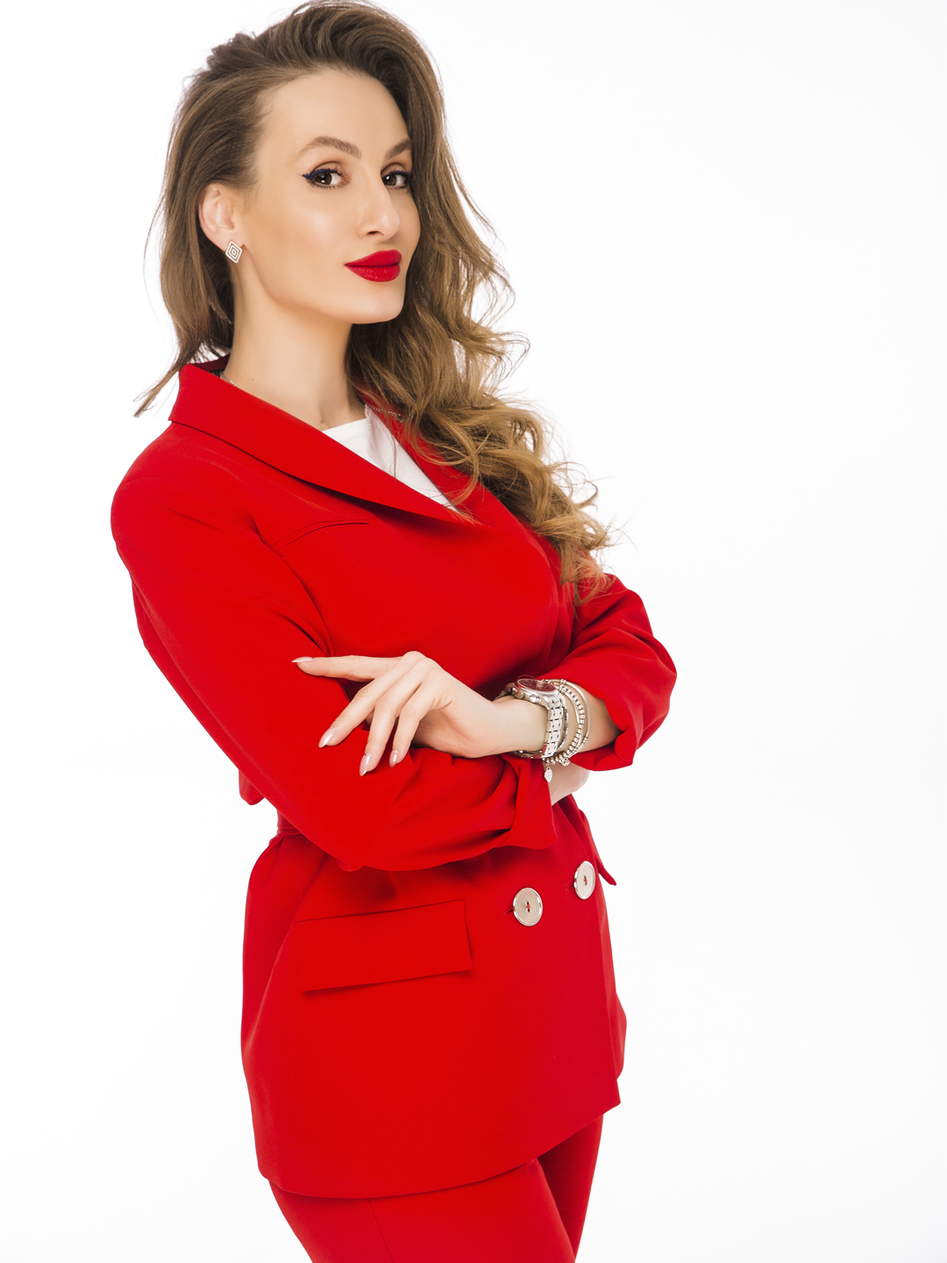
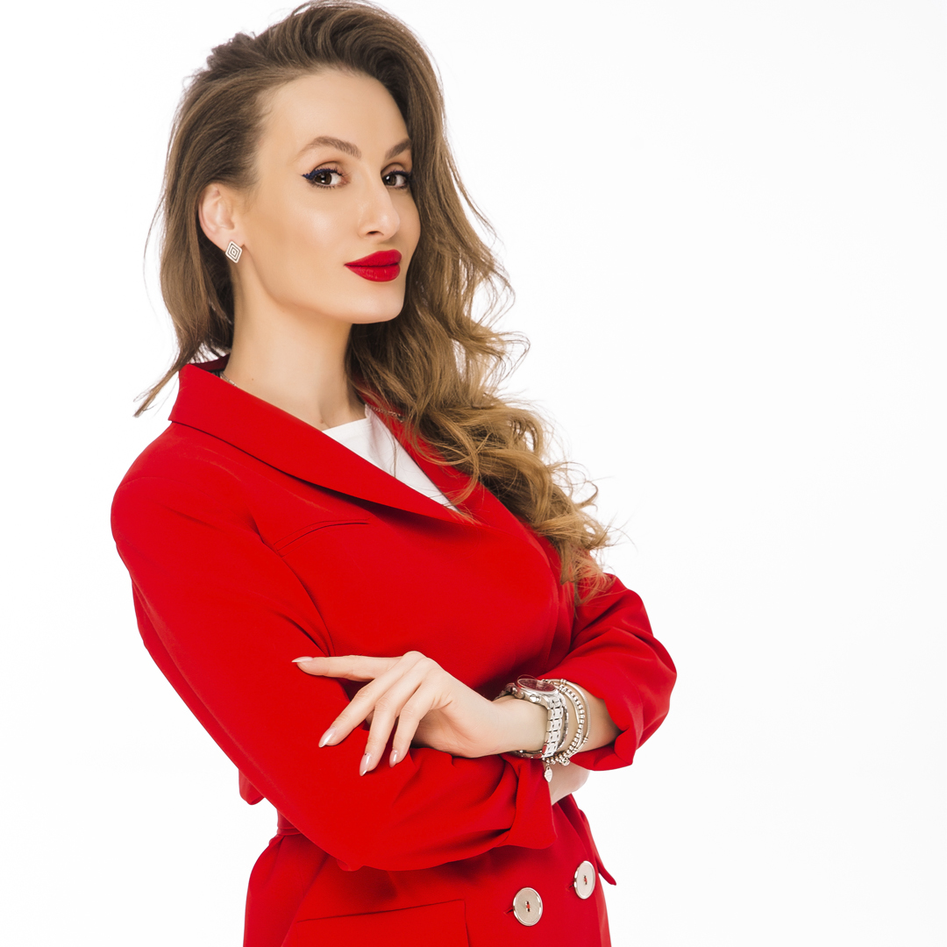
уменьшил спикеров

Changed region(s): [[0.0917, 0.0, 0.7333, 1.0]]

diff --git a/index.html b/index.html
@@ -839,51 +839,51 @@
             <div class="row">
                 <div class="col-lg-4 col-md-6 bordered no-pad">
                     <img src="./img/Spikers/vasheshnikov.jpg" alt="Мастер класс Дмитрий Вашешников" class="speakers-img" name="vasheshnikov">
+                    <button class="speakers-btn modal-btn" name='vasheshnikov'>О спикере</button>
                     <h2 class="speakers-name">Дмитрий Вашешников</h2>
                     <h3 class="speakers-prof">Бизнес-тренер</h3>
                     <div class="speakers-text">
                         ЯБренд</div>
-                    <button class="speakers-btn modal-btn" name='vasheshnikov'>О спикере</button>
                 </div>
                 <div class="col-lg-4 col-md-6 bordered no-pad">
                     <img src="./img/Spikers/didoruk.jpg" alt="Мастер класс Анастасия Дидорук" class="speakers-img" name="didoruk">
+                    <button class="speakers-btn modal-btn" name="didoruk">О спикере</button>
                     <h2 class="speakers-name">Анастасия Дидорук</h2>
                     <h3 class="speakers-prof">Визажист</h3>
                     <div class="speakers-text">
                         Обрести своего клиента</div>
-                    <button class="speakers-btn modal-btn" name="didoruk">О спикере</button>
                 </div>
                 <div class="col-lg-4 col-md-6 bordered no-pad">
                     <img src="./img/Spikers/yakuba.jpg" alt="Мастер класс Владимир Якуба" class="speakers-img" name="yakuba">
+                    <button class="speakers-btn modal-btn" name='yakuba'>О спикере</button>
                     <h2 class="speakers-name">Владимир Якуба</h2>
                     <h3 class="speakers-prof">Бизнес-тренер</h3>
                     <div class="speakers-text">
                         Продажи в условиях жёсткой конкуренции</div>
-                    <button class="speakers-btn modal-btn" name='yakuba'>О спикере</button>
                 </div>
                 <div class="col-lg-4 col-md-6 bordered no-pad">
                     <img src="./img/Spikers/soboleva.jpg" alt="Мастер класс Любовь Соболева" class="speakers-img" name="soboleva">
+                    <button class="speakers-btn modal-btn" name='soboleva'>О спикере</button>
                     <h2 class="speakers-name">Любовь Соболева</h2>
                     <h3 class="speakers-prof">Бизнес-тренер</h3>
                     <div class="speakers-text">
                         Инстаграм бьюти-мастера</div>
-                    <button class="speakers-btn modal-btn" name='soboleva'>О спикере</button>
                 </div>
                 <div class="col-lg-4 col-md-6 bordered no-pad">
                     <img src="./img/Spikers/petuhov.jpg" alt="Мастер класс Дмитрий Петухов" class="speakers-img" name="petuhov">
+                    <button class="speakers-btn modal-btn" name='petuhov'>О спикере</button>
                     <h2 class="speakers-name">Дмитрий Петухов</h2>
                     <h3 class="speakers-prof">Врач-эпидемиолог</h3>
                     <div class="speakers-text">
                         Санитарная безопасность в индустрии красоты</div>
-                    <button class="speakers-btn modal-btn" name='petuhov'>О спикере</button>
                 </div>
                 <div class="col-lg-4 col-md-6 bordered no-pad">
                     <img src="./img/Spikers/sherbanos.jpg" alt="Мастер класс Пётр Щербанос" class="speakers-img" name="sherbanos">
+                    <button class="speakers-btn modal-btn" name='sherbanos'>О спикере</button>
                     <h2 class="speakers-name">Пётр Щербанос</h2>
                     <h3 class="speakers-prof">Бренд-консультант</h3>
                     <div class="speakers-text">
                         Брендинг в бьюти-индустрии</div>
-                    <button class="speakers-btn modal-btn" name='sherbanos'>О спикере</button>
                 </div>
             </div>
             <div class="row">
@@ -896,75 +896,75 @@
             <div class="row">
                 <div class="col-lg-4 col-md-6 bordered no-pad">
                     <img src="./img/Spikers/eitan.jpg" alt="Мастер класс Inbal Eitan" class="speakers-img" name="eitan">
+                    <button class="speakers-btn modal-btn" name='eitan'>О спикере</button>
                     <h2 class="speakers-name">Inbal Eitan</h2>
                     <h3 class="speakers-prof">визажист (Израиль)</h3>
                     <div class="speakers-text">
                         Fashion week for brides</div>
-                    <button class="speakers-btn modal-btn" name='eitan'>О спикере</button>
                 </div>
                 <div class="col-lg-4 col-md-6 bordered no-pad">
                     <img src="./img/Spikers/shilkov.jpg" alt="Мастер класс Андрей Шилков" class="speakers-img" name="shilkov">
+                    <button class="speakers-btn modal-btn" name='shilkov'>О спикере</button>
                     <h2 class="speakers-name">Андрей Шилков</h2>
                     <h3 class="speakers-prof">Художник по макияжу</h3>
                     <div class="speakers-text">
                         Секреты макияжа звёзд</div>
-                    <button class="speakers-btn modal-btn" name='shilkov'>О спикере</button>
                 </div>
                 <div class="col-lg-4 col-md-6 bordered no-pad">
                     <img src="./img/Spikers/tarakanova.jpg" alt="Мастер класс Людмила Тараканова" class="speakers-img" name="tarakanova">
+                    <button class="speakers-btn modal-btn" name='tarakanova'>О спикере</button>
                     <h2 class="speakers-name">Людмила Тараканова</h2>
                     <h3 class="speakers-prof">Визажист</h3>
                     <div class="speakers-text">
                         Идеальная кожа без тона с трансформацией в Fashion make up</div>
-                    <button class="speakers-btn modal-btn" name='tarakanova'>О спикере</button>
                 </div>
                 <div class="col-lg-4 col-md-6 bordered no-pad">
                     <img src="./img/Spikers/kunnieva.jpg" alt="Мастер класс Малика Кунниева" class="speakers-img" name="kunnieva">
+                    <button class="speakers-btn modal-btn" name="kunnieva">О спикере</button>
                     <h2 class="speakers-name">Малика Кунниева</h2>
                     <h3 class="speakers-prof">Визажист</h3>
                     <div class="speakers-text">
                         Модная техника стрелок - кошачий глаз в свадебном макияже</div>
-                    <button class="speakers-btn modal-btn" name="kunnieva">О спикере</button>
                 </div>
                 <div class="col-lg-4 col-md-6 bordered no-pad">
                     <img src="./img/Spikers/semushin.jpg" alt="Мастер класс Игорь Семушин" class="speakers-img" name="semushin">
+                    <button class="speakers-btn modal-btn" name='semushin'>О спикере</button>
                     <h2 class="speakers-name">Игорь Семушин</h2>
                     <h3 class="speakers-prof">Визажист</h3>
                     <div class="speakers-text">
                         Стрелки игубы в авторской анатомической технике</div>
-                    <button class="speakers-btn modal-btn" name='semushin'>О спикере</button>
                 </div>
                 <div class="col-lg-4 col-md-6 bordered no-pad">
                     <img src="./img/Spikers/bartsueva.jpg" alt="Мастер класс Элла Барцуева" class="speakers-img" name="bartsueva">
+                    <button class="speakers-btn modal-btn" name='bartsueva'>О спикере</button>
                     <h2 class="speakers-name">Элла Барцуева</h2>
                     <h3 class="speakers-prof">Визажист</h3>
                     <div class="speakers-text">
                         Коммерческий свадебный макияж</div>
-                    <button class="speakers-btn modal-btn" name='bartsueva'>О спикере</button>
                 </div>
                 <div class="col-lg-4 col-md-6 bordered no-pad">
                     <img src="./img/Spikers/chernomorova.jpg" alt="Мастер класс Кристина Черноморова" class="speakers-img" name="chernomorova">
+                    <button class="speakers-btn modal-btn" name="chernomorova">О спикере</button>
                     <h2 class="speakers-name">Кристина Черноморова</h2>
                     <h3 class="speakers-prof">Визажист</h3>
                     <div class="speakers-text">
                         Создание идеальных бровей: от разрушения до восстановления</div>
-                    <button class="speakers-btn modal-btn" name="chernomorova">О спикере</button>
                 </div>
                 <div class="col-lg-4 col-md-6 bordered no-pad">
                     <img src="./img/Spikers/poni.jpg" alt="Мастер класс Пони Рома" class="speakers-img" name="poni">
+                    <button class="speakers-btn modal-btn" name='poni'>О спикере</button>
                     <h2 class="speakers-name">Пони Рома</h2>
                     <h3 class="speakers-prof">Визажист</h3>
                     <div class="speakers-text">
                         Nude make up</div>
-                    <button class="speakers-btn modal-btn" name='poni'>О спикере</button>
                 </div>
                 <div class="col-lg-4 col-md-6 bordered no-pad">
                     <img src="./img/Spikers/gilev.jpg" alt="Мастер класс Максим Гилёв" class="speakers-img" name="gilev">
+                    <button class="speakers-btn modal-btn" name='gilev'>О спикере</button>
                     <h2 class="speakers-name">Максим Гилёв</h2>
                     <h3 class="speakers-prof">Визажист</h3>
                     <div class="speakers-text">
                         Современные текстуры и различные техники в макияже глаз</div>
-                    <button class="speakers-btn modal-btn" name='gilev'>О спикере</button>
                 </div>
             </div>
             <div class="row">
@@ -977,75 +977,75 @@
             <div class="row">
                 <div class="col-lg-4 col-md-6 bordered no-pad">
                     <img src="./img/Spikers/vinner.jpg" alt="Мастер класс Юлия Виннер" class="speakers-img" name="vinner">
+                    <button class="speakers-btn modal-btn" name='vinner'>О спикере</button>
                     <h2 class="speakers-name">Юлия Виннер</h2>
                     <h3 class="speakers-prof">Мастер перманентного макияжа</h3>
                     <div class="speakers-text">
                         Волоски от А до Я</div>
-                    <button class="speakers-btn modal-btn" name='vinner'>О спикере</button>
                 </div>
                 <div class="col-lg-4 col-md-6 bordered no-pad">
                     <img src="./img/Spikers/borovaya.jpg" alt="Мастер класс Екатерина Боровая" class="speakers-img" name="borovaya">
+                    <button class="speakers-btn modal-btn" name='borovaya'>О спикере</button>
                     <h2 class="speakers-name">Екатерина Боровая</h2>
                     <h3 class="speakers-prof">Мастер перманентного макияжа</h3>
                     <div class="speakers-text">
                         ПМ век - тени в авторской технике Arcobaleno. Работа без анестезии</div>
-                    <button class="speakers-btn modal-btn" name='borovaya'>О спикере</button>
                 </div>
                 <div class="col-lg-4 col-md-6 bordered no-pad">
                     <img src="./img/Spikers/tomashivskaya.jpg" alt="Мастер класс Виктория Томашивская" class="speakers-img" name="tomashivskaya">
+                    <button class="speakers-btn modal-btn" name='tomashivskaya'>О спикере</button>
                     <h2 class="speakers-name">Виктория Томашивская</h2>
                     <h3 class="speakers-prof">Мастер перманентного макияжа</h3>
                     <div class="speakers-text">
                         Восстановление цвета и формы ареолы груди и сосково-ареолярного комплекса</div>
-                    <button class="speakers-btn modal-btn" name='tomashivskaya'>О спикере</button>
                 </div>
                 <div class="col-lg-4 col-md-6 bordered no-pad">
                     <img src="./img/Spikers/hromenko.jpg" alt="Мастер класс Инга Хроменко" class="speakers-img" name="hromenko">
+                    <button class="speakers-btn modal-btn" name='hromenko'>О спикере</button>
                     <h2 class="speakers-name">Инга Хроменко</h2>
                     <h3 class="speakers-prof">Мастер перманентного макияжа</h3>
                     <div class="speakers-text">
                         50 оттенков серого в бровях: кто виноват? Мастер или производитель?</div>
-                    <button class="speakers-btn modal-btn" name='hromenko'>О спикере</button>
                 </div>
                 <div class="col-lg-4 col-md-6 bordered no-pad">
                     <img src="./img/Spikers/miridonov.jpg" alt="Мастер класс Денис Миридонов" class="speakers-img" name="miridonov">
+                    <button class="speakers-btn modal-btn" name='miridonov'>О спикере</button>
                     <h2 class="speakers-name">Денис Миридонов</h2>
                     <h3 class="speakers-prof">Мастер перманентного макияжа</h3>
                     <div class="speakers-text">
                         От техники зависит техника</div>
-                    <button class="speakers-btn modal-btn" name='miridonov'>О спикере</button>
                 </div>
                 <div class="col-lg-4 col-md-6 bordered no-pad">
                     <img src="./img/Spikers/budaragina.jpg" alt="Мастер класс Алла Бударагина" class="speakers-img" name="budaragina">
+                    <button class="speakers-btn modal-btn" name='budaragina'>О спикере</button>
                     <h2 class="speakers-name">Алла Бударагина</h2>
                     <h3 class="speakers-prof">Мастер перманентного макияжа</h3>
                     <div class="speakers-text">
                         Брови в авторской технике "Powder brows"</div>
-                    <button class="speakers-btn modal-btn" name='budaragina'>О спикере</button>
                 </div>
                 <div class="col-lg-4 col-md-6 bordered no-pad">
                     <img src="./img/Spikers/brazinskaya.jpg" alt="Мастер класс Кристина Бразинская" class="speakers-img" name="brazinskaya">
+                    <button class="speakers-btn modal-btn" name='brazinskaya'>О спикере</button>
                     <h2 class="speakers-name">Кристина Бразинская</h2>
                     <h3 class="speakers-prof">Мастер перманентного макияжа</h3>
                     <div class="speakers-text">
                         Перекрытие некачественного ПМ бровей</div>
-                    <button class="speakers-btn modal-btn" name='brazinskaya'>О спикере</button>
                 </div>
                 <div class="col-lg-4 col-md-6 bordered no-pad">
                     <img src="./img/Spikers/spiridonova.jpg" alt="Мастер класс Анастасия Спиридонова" class="speakers-img" name="spiridonova">
+                    <button class="speakers-btn modal-btn" name='spiridonova'>О спикере</button>
                     <h2 class="speakers-name">Анастасия Спиридонова</h2>
                     <h3 class="speakers-prof">Мастер перманентного макияжа</h3>
                     <div class="speakers-text">
                         Губы с эффектом помады в один проход <br> "Wow lipstick"</div>
-                    <button class="speakers-btn modal-btn" name='spiridonova'>О спикере</button>
                 </div>
                 <div class="col-lg-4 col-md-6 bordered no-pad">
                     <img src="./img/Spikers/simtikov.jpg" alt="Мастер класс Рустем Симтиков" class="speakers-img" name="simtikov">
+                    <button class="speakers-btn modal-btn" name='simtikov'>О спикере</button>
                     <h2 class="speakers-name">Рустем Симтиков</h2>
                     <h3 class="speakers-prof">Мастер перманентного макияжа</h3>
                     <div class="speakers-text">
                         Перманентный макияж губ в авторской технике "Velvety Lips"</div>
-                    <button class="speakers-btn modal-btn" name='simtikov'>О спикере</button>
                 </div>
             </div>
     </section>
@@ -1061,11 +1061,11 @@
             <div class="row">
                 <div class="col-lg-4 col-md-6 bordered no-pad">
                     <img src="./img/Spikers/rodrigez.jpg" alt="Тимур Родригез" class="speakers-img" name="rodrigez">
+                    <button class="speakers-btn modal-btn" name='rodrigez'>О спикере</button>
                     <h2 class="speakers-name">Тимур Родригез</h2>
                     <h3 class="speakers-prof">Шоумен</h3>
                     <div class="speakers-text">
                         Ведущий гала-ужина</div>
-                    <button class="speakers-btn modal-btn" name='rodrigez'>О спикере</button>
                 </div>
                 <div class="col-lg-4 col-md-6 bordered no-pad">
 

diff --git a/css/style.min.css b/css/style.min.css
@@ -1,2 +1,2 @@
-.header{text-align:end}.header-logo{margin-top:15px;display:inline-block;width:100px;-webkit-transform:translateX(-322px);transform:translateX(-322px);position:relative}.header-logo__img{width:185px;position:relative}.header-logo__img_mobile{display:none}.header-menu{display:inline-block;vertical-align:top}.header-menu li{display:inline;margin-left:5px}.header-menu__link{color:#fff;text-transform:uppercase;text-decoration:none;font-size:16px}.header-descr{display:inline-block;position:relative;-webkit-transform:translateY(-80px);transform:translateY(-80px);color:#fff}.header-date{text-transform:uppercase;display:block;font-size:22px;font-family:'Playfair Display Bold';font-weight:600;margin-bottom:10px;color:#FF6F61}.header-tel{margin-top:10px;display:inline}.header-tel__link{color:#FF6F61;font-size:20px;text-decoration:none}.header-btn{background-color:#FF6F61;border:none;text-transform:uppercase;font-size:17px;font-weight:600;font-family:'Playfair Display Bold';margin-top:72px;cursor:pointer;outline:none;padding:5px;display:block}.header-contacts{text-align:start}.contacts-link{display:inline-block;text-transform:uppercase;color:#ffffff;margin-top:17px;text-decoration:none;margin-left:14px;font-size:16px}@media (max-width: 1200px){.header-logo{-webkit-transform:translateX(-229px);transform:translateX(-229px)}.header-menu{display:none}.header-descr{-webkit-transform:translateY(-37px);transform:translateY(-37px)}.contacts-link{display:none}}@media (max-width: 992px){.header-logo{-webkit-transform:translateX(-310px);transform:translateX(-310px)}.header-descr{-webkit-transform:translateY(0);transform:translateY(0)}.header-btn{margin-top:20px}}@media (max-width: 768px){.header-btn{margin-bottom:20px;background-color:#fff}.header-logo{-webkit-transform:translateX(-129px);transform:translateX(-129px)}}@media (max-width: 576px){.header-logo{-webkit-transform:none;transform:none;width:100%}.header-logo__img{display:none}.header-logo__img_mobile{display:block;margin:auto;margin-top:10px;width:200px}}.main-utp{font-size:22px;text-transform:uppercase;background-color:#FF6F61;color:#000;font-family:'Playfair Display Bold';font-weight:600;padding:10px}.main-wrap{background:url("../img/main-bg-100.jpg") center no-repeat;background-size:cover}.main-descr{margin-top:20px}.main-descr__sale{padding-left:5px}.main-btn{text-transform:uppercase;font-family:'Playfair Display Bold';font-weight:600;margin-top:20px;padding:5px 10px 5px 10px;border:none;outline:none;cursor:pointer}.main-btn__down{width:100%;display:block;text-align:center;margin-top:30px}.down{height:40px;margin-top:30px}@media (max-width: 1200px){.down{display:none}}@media (max-width: 992px){.main-wrap{background-size:contain}}@media (max-width: 768px){.main-wrap{background:none}}.section-title{margin-top:50px;margin-bottom:50px;text-transform:uppercase;font-size:36px}.interest{background:url("../img/second-bg.jpg") center no-repeat;background-size:contain}.interest-title{margin-top:70px;display:block;text-align:start}.interest-down{display:block;margin-top:340px}.forwho{background:url("../img/third-bg-100.jpg") center no-repeat;background-size:contain}.forwho-title{margin-top:70px;display:block;text-align:center}.programm{width:100%}.programm-wrap{background:url("../img/forth-bg-100.jpg") top no-repeat;background-size:cover;width:100%}.programm-btn{position:relative;-webkit-transform:translateX(-15px);transform:translateX(-15px)}.programm-title{text-align:end}.programm-adv{padding-left:3px;padding-right:3px}.programm-text{font-weight:normal}@media (max-width: 1200px){.interest-down{margin-top:150px}}@media (max-width: 576px){.interest{background:none}.programm-wrap{background-size:cover}}@media (max-width: 768px){.forwho{background:none}.interest-down{margin-top:0}.programm-wrap{background:none}}.speakers-img{width:80%;cursor:pointer}.speakers-name{margin-left:5px}.speakers-prof{text-transform:uppercase;margin-left:5px}.speakers-text{margin-left:5px;display:block;height:60px}.speakers-btn{color:#000000;background-color:#FF6F61;border:none;text-transform:uppercase;font-family:'Playfair Display Bold';font-weight:600;padding:5px 15px;width:80%;text-align:start;margin-top:20px;cursor:pointer;outline:none;margin-bottom:30px}@media (max-width: 768px){.speakers-img{width:50%}.speakers-btn{width:50%}}@media (max-width: 576px){.speakers-img{width:70%}.speakers-btn{width:70%}}.sponsors{text-align:center}.sponsors-logo{width:200px;margin-bottom:50px}td{border:none;padding-left:5px;padding-top:7px;padding-bottom:7px}.pricing-table{border:none;border-spacing:0;width:100%}.pricing-table_light{background-color:rgba(255,255,255,0.2)}.pricing-table__btn{height:100%;width:100%;border:none;padding-top:7px;padding-bottom:7px;background-color:#FF6F61;font-family:'Playfair Display Bold';font-weight:600;font-size:18px;display:block;outline:none;cursor:pointer}.pricing-table__btn_wrap{padding:0}.pricing-col__title{font-size:15px}.border_right{border-right:1px solid #fff}@media (max-width: 1200px){td{height:60px}}@media (max-width: 368px){td{height:80px}}.place-img{width:100%}.place-title{margin:0}#map{height:400px;width:100%}.footer-logo{margin-top:25px;display:inline-block;width:100px;-webkit-transform:translateX(-81px);transform:translateX(-81px)}.footer-title{margin-top:50px;text-transform:uppercase;font-size:22px}.footer-contact{margin-bottom:50px;font-size:22px}.footer-contact__link{color:#ffffff;text-decoration:none}.footer-btn{margin-bottom:20px}@media (max-width: 576px){.footer-title{margin-top:20px}.footer-contact{margin-bottom:5px}.footer-logo{width:100%;margin-top:25px;display:block;-webkit-transform:none;transform:none}}#modal{height:90%;width:90%;background-color:rgba(0,0,0,0.85);position:fixed;left:50%;top:50%;z-index:1000;-webkit-transform:translateX(-50%) translateY(-50%);transform:translateX(-50%) translateY(-50%);display:none;border:solid 1.5px #fff;overflow:auto}#close{width:30px;position:fixed;top:1%;left:94%;cursor:pointer;z-index:1500;display:none}.modal-img{width:92%;display:block;margin:auto;margin-top:10px}.modal-block{display:none}.modal-block li{font-family:'Open Sans'}.modal-form__wrap{text-align:center;width:100%;position:absolute;left:50%;top:50%;-webkit-transform:translateX(-50%) translateY(-50%);transform:translateX(-50%) translateY(-50%)}.modal-form__input{border:none;background-color:rgba(0,0,0,0);border-bottom:1px solid #fff;outline:none;color:#fff;display:block;margin:auto;margin-bottom:20px;width:30%}.modal-contacts__link{color:#ffffff;font-size:20px;margin-bottom:10px}#shim{position:fixed;bottom:0;left:0;top:0;right:0;z-index:900;display:none;overflow:auto;-webkit-overflow-scrolling:touch}#shim{background:rgba(0,0,0,0.5);filter:progid:DXImageTransform.Microsoft.gradient(startColorstr=#7F000000,endColorstr=#7F000000);zoom:1}@media (max-width: 992px){.modal-img{display:none}}@media (max-width: 576px){.modal-form__input{width:90%}}@media (max-width: 420px){#close{left:93%}}body{background-color:#000;font-family:'Playfair Display', 'Open Sans';color:#fff;margin:0;font-weight:normal;font-size:17px}.bordered{border-left:solid #fff 1px}.no-pad{padding-left:0px !important;padding-right:0px !important}p{font-family:'Open Sans'}
+.header{text-align:end}.header-logo{margin-top:15px;display:inline-block;width:100px;-webkit-transform:translateX(-322px);transform:translateX(-322px);position:relative}.header-logo__img{width:185px;position:relative}.header-logo__img_mobile{display:none}.header-menu{display:inline-block;vertical-align:top}.header-menu li{display:inline;margin-left:5px}.header-menu__link{color:#fff;text-transform:uppercase;text-decoration:none;font-size:16px}.header-descr{display:inline-block;position:relative;-webkit-transform:translateY(-80px);transform:translateY(-80px);color:#fff}.header-date{text-transform:uppercase;display:block;font-size:22px;font-family:'Playfair Display Bold';font-weight:600;margin-bottom:10px;color:#FF6F61}.header-tel{margin-top:10px;display:inline}.header-tel__link{color:#FF6F61;font-size:20px;text-decoration:none}.header-btn{background-color:#FF6F61;border:none;text-transform:uppercase;font-size:17px;font-weight:600;font-family:'Playfair Display Bold';margin-top:72px;cursor:pointer;outline:none;padding:5px;display:block}.header-contacts{text-align:start}.contacts-link{display:inline-block;text-transform:uppercase;color:#ffffff;margin-top:17px;text-decoration:none;margin-left:14px;font-size:16px}@media (max-width: 1200px){.header-logo{-webkit-transform:translateX(-229px);transform:translateX(-229px)}.header-menu{display:none}.header-descr{-webkit-transform:translateY(-37px);transform:translateY(-37px)}.contacts-link{display:none}}@media (max-width: 992px){.header-logo{-webkit-transform:translateX(-310px);transform:translateX(-310px)}.header-descr{-webkit-transform:translateY(0);transform:translateY(0)}.header-btn{margin-top:20px}}@media (max-width: 768px){.header-btn{margin-bottom:20px;background-color:#fff}.header-logo{-webkit-transform:translateX(-129px);transform:translateX(-129px)}}@media (max-width: 576px){.header-logo{-webkit-transform:none;transform:none;width:100%}.header-logo__img{display:none}.header-logo__img_mobile{display:block;margin:auto;margin-top:10px;width:200px}}.main-utp{font-size:22px;text-transform:uppercase;background-color:#FF6F61;color:#000;font-family:'Playfair Display Bold';font-weight:600;padding:10px}.main-wrap{background:url("../img/main-bg-100.jpg") center no-repeat;background-size:cover}.main-descr{margin-top:20px}.main-descr__sale{padding-left:5px}.main-btn{text-transform:uppercase;font-family:'Playfair Display Bold';font-weight:600;margin-top:20px;padding:5px 10px 5px 10px;border:none;outline:none;cursor:pointer}.main-btn__down{width:100%;display:block;text-align:center;margin-top:30px}.down{height:40px;margin-top:30px}@media (max-width: 1200px){.down{display:none}}@media (max-width: 992px){.main-wrap{background-size:contain}}@media (max-width: 768px){.main-wrap{background:none}}.section-title{margin-top:50px;margin-bottom:50px;text-transform:uppercase;font-size:36px}.interest{background:url("../img/second-bg.jpg") center no-repeat;background-size:contain}.interest-title{margin-top:70px;display:block;text-align:start}.interest-down{display:block;margin-top:340px}.forwho{background:url("../img/third-bg-100.jpg") center no-repeat;background-size:contain}.forwho-title{margin-top:70px;display:block;text-align:center}.programm{width:100%}.programm-wrap{background:url("../img/forth-bg-100.jpg") top no-repeat;background-size:cover;width:100%}.programm-btn{position:relative;-webkit-transform:translateX(-15px);transform:translateX(-15px)}.programm-title{text-align:end}.programm-adv{padding-left:3px;padding-right:3px}.programm-text{font-weight:normal}@media (max-width: 1200px){.interest-down{margin-top:150px}}@media (max-width: 576px){.interest{background:none}.programm-wrap{background-size:cover}}@media (max-width: 768px){.forwho{background:none}.interest-down{margin-top:0}.programm-wrap{background:none}}.speakers-img{-o-object-fit:cover;object-fit:cover;width:250px;height:250px;cursor:pointer}.speakers-name{margin-left:5px}.speakers-prof{text-transform:uppercase;margin-left:5px}.speakers-text{margin-left:5px;display:block;height:60px}.speakers-btn{color:#000000;background-color:#FF6F61;border:none;text-transform:uppercase;font-family:'Playfair Display Bold';font-weight:600;padding:5px 15px;width:250px;text-align:start;cursor:pointer;outline:none;margin-bottom:30px}@media (max-width: 768px){.speakers-btn{width:50%}}.sponsors{text-align:center}.sponsors-logo{width:200px;margin-bottom:50px}td{border:none;padding-left:5px;padding-top:7px;padding-bottom:7px}.pricing-table{border:none;border-spacing:0;width:100%}.pricing-table_light{background-color:rgba(255,255,255,0.2)}.pricing-table__btn{height:100%;width:100%;border:none;padding-top:7px;padding-bottom:7px;background-color:#FF6F61;font-family:'Playfair Display Bold';font-weight:600;font-size:18px;display:block;outline:none;cursor:pointer}.pricing-table__btn_wrap{padding:0}.pricing-col__title{font-size:15px}.border_right{border-right:1px solid #fff}@media (max-width: 1200px){td{height:60px}}@media (max-width: 368px){td{height:80px}}.place-img{width:100%}.place-title{margin:0}#map{height:400px;width:100%}.footer-logo{margin-top:25px;display:inline-block;width:100px;-webkit-transform:translateX(-81px);transform:translateX(-81px)}.footer-title{margin-top:50px;text-transform:uppercase;font-size:22px}.footer-contact{margin-bottom:50px;font-size:22px}.footer-contact__link{color:#ffffff;text-decoration:none}.footer-btn{margin-bottom:20px}@media (max-width: 576px){.footer-title{margin-top:20px}.footer-contact{margin-bottom:5px}.footer-logo{width:100%;margin-top:25px;display:block;-webkit-transform:none;transform:none}}#modal{height:90%;width:90%;background-color:rgba(0,0,0,0.85);position:fixed;left:50%;top:50%;z-index:1000;-webkit-transform:translateX(-50%) translateY(-50%);transform:translateX(-50%) translateY(-50%);display:none;border:solid 1.5px #fff;overflow:auto}#close{width:30px;position:fixed;top:1%;left:94%;cursor:pointer;z-index:1500;display:none}.modal-img{width:92%;display:block;margin:auto;margin-top:10px}.modal-block{display:none}.modal-block li{font-family:'Open Sans'}.modal-form__wrap{text-align:center;width:100%;position:absolute;left:50%;top:50%;-webkit-transform:translateX(-50%) translateY(-50%);transform:translateX(-50%) translateY(-50%)}.modal-form__input{border:none;background-color:rgba(0,0,0,0);border-bottom:1px solid #fff;outline:none;color:#fff;display:block;margin:auto;margin-bottom:20px;width:30%}.modal-contacts__link{color:#ffffff;font-size:20px;margin-bottom:10px}#shim{position:fixed;bottom:0;left:0;top:0;right:0;z-index:900;display:none;overflow:auto;-webkit-overflow-scrolling:touch}#shim{background:rgba(0,0,0,0.5);filter:progid:DXImageTransform.Microsoft.gradient(startColorstr=#7F000000,endColorstr=#7F000000);zoom:1}@media (max-width: 992px){.modal-img{display:none}}@media (max-width: 576px){.modal-form__input{width:90%}}@media (max-width: 420px){#close{left:93%}}body{background-color:#000;font-family:'Playfair Display', 'Open Sans';color:#fff;margin:0;font-weight:normal;font-size:17px}.bordered{border-left:solid #fff 1px}.no-pad{padding-left:0px !important;padding-right:0px !important}p{font-family:'Open Sans'}
 /*# sourceMappingURL=style.min.css.map */

diff --git a/sass/_speakers.sass b/sass/_speakers.sass
@@ -1,6 +1,8 @@
 .speakers
     &-img
-        width: 80%
+        object-fit: cover
+        width: 250px
+        height: 250px
         cursor: pointer
     &-name
        margin-left: 5px 
@@ -19,9 +21,9 @@
         font-family: 'Playfair Display Bold'
         font-weight: 600
         padding: 5px 15px
-        width: 80%
+        width: 250px
         text-align: start
-        margin-top: 20px
+        // margin-top: 20px
         cursor: pointer
         outline: none
         margin-bottom: 30px
@@ -29,12 +31,12 @@
 @media (max-width: 768px)
     .speakers
         &-img
-            width: 50%
+            // width: 50%
         &-btn
             width: 50%
 @media (max-width: 576px)
     .speakers
         &-img
-            width: 70%
+            // width: 70%
         &-btn
-            width: 70%
+            // width: 70%

diff --git a/css/style.css b/css/style.css
@@ -309,7 +309,10 @@
 }
 
 .speakers-img {
-  width: 80%;
+  -o-object-fit: cover;
+     object-fit: cover;
+  width: 250px;
+  height: 250px;
   cursor: pointer;
 }
 
@@ -336,29 +339,16 @@
   font-family: 'Playfair Display Bold';
   font-weight: 600;
   padding: 5px 15px;
-  width: 80%;
+  width: 250px;
   text-align: start;
-  margin-top: 20px;
   cursor: pointer;
   outline: none;
   margin-bottom: 30px;
 }
 
 @media (max-width: 768px) {
-  .speakers-img {
-    width: 50%;
-  }
   .speakers-btn {
     width: 50%;
-  }
-}
-
-@media (max-width: 576px) {
-  .speakers-img {
-    width: 70%;
-  }
-  .speakers-btn {
-    width: 70%;
   }
 }
 
